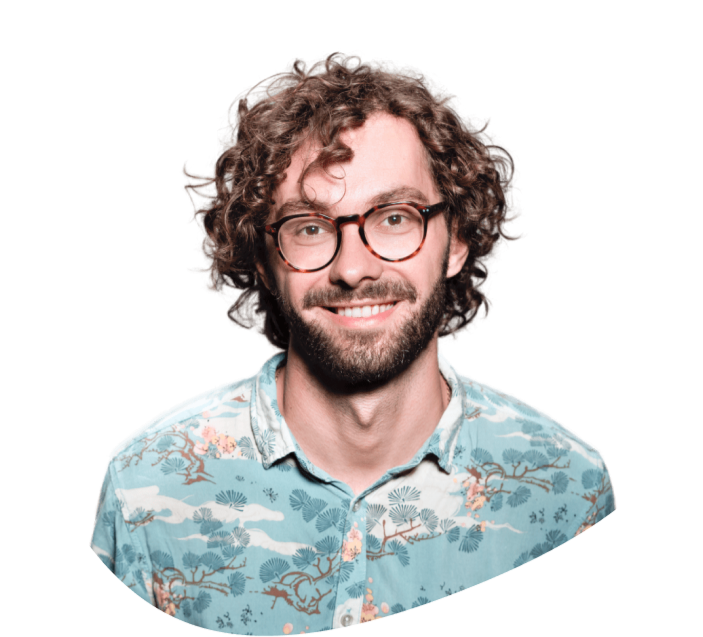
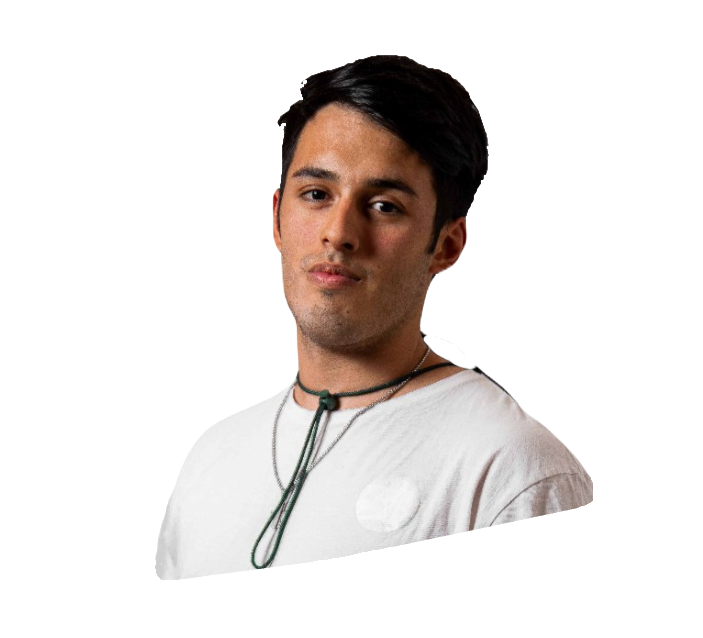
Se modifica la imagen de developer, se agrega sidebar para mobile

diff --git a/components/Hero.jsx b/components/Hero.jsx
@@ -7,6 +7,8 @@ import {
     RiTeamFill,
     RiTodoFill,
     RiArrowDownSLine,
+    RiHammerFill,
+    RiToolsFill,
 } from "react-icons/ri";
 
 //Components
@@ -32,20 +34,20 @@ const Hero = () => {
                         <Button variant="secondary" className="gap-x-2">Download CV<Download size={18}/></Button>
                     </div>
                     {/*Socials*/}
-                    <Socials containerStyles="flex gap-x-6 mx-auto xl:mx:0" iconsStyles="text-foreground text-[22px] hover:text-primary transition-all"/>
+                    <Socials containerStyles="flex gap-x-6 mx-auto xl:mx-0" iconsStyles="text-foreground text-[22px] hover:text-primary transition-all"/>
                 </div>
                 {/*Image*/}
                 <div className="hidden xl:flex relative">
                     {/*Badge 1*/}
                     <Badge containerStyles="absolute top-[24%] -left-[5rem]" icon={<RiBriefcase4Fill />} endCountNum={1} badgeText="Years Of Experience"/>
                     {/*Badge 2*/}
-                    <Badge containerStyles="absolute top-[80%] -left-[1rem]" icon={<RiTodoFill />} endCountNum={6} endCountText="k" 
+                    <Badge containerStyles="absolute top-[80%] -left-[1rem]" icon={<RiTodoFill />} endCountNum={6} endCountText="" 
                     badgeText="Finished Proyects"/>
                     {/*Badge 3*/}
-                    <Badge containerStyles="absolute top-[55%] -right-8" icon={<RiTeamFill />} endCountNum={9} endCountText="k"
-                    badgeText="Happy Clients"/>
+                    <Badge containerStyles="absolute top-[55%] -right-8" icon={<RiToolsFill />} endCountNum={5} endCountText=""
+                    badgeText="Frameworks and language"/>
                     <div className="bg-hero_shape2_light dark:bg-hero_shape2_dark w-[500px] h-[500px] bg-no-repeat absolute -top-1 -right-2"></div>
-                    <DevImg containerStyles="bg-hero_shape w-[510px] h-[462px] bg-no-repeat relative bg-bottom" imgSrc="/hero/developer1.png"/>
+                    <DevImg containerStyles="bg-hero_shape w-[510px] h-[462px] bg-no-repeat relative bg-bottom" imgSrc="/hero/developer.png"/>
                 </div>
             </div>
             {/*Icon*/}

diff --git a/components/MobileNav.jsx b/components/MobileNav.jsx
@@ -1,6 +1,31 @@
+import { AlignJustify } from "lucide-react"
+import { Sheet, SheetTrigger, SheetContent } from "./ui/sheet"
+import Nav from "./Nav"
+import Logo from "./ui/Logo"
+import Socials from "./Socials"
+
+
 const MobileNav = () => {
   return (
-    <div>MobileNav</div>
+    <Sheet>
+      <SheetTrigger asChild>
+        <AlignJustify className="cursor-pointer" />
+      </SheetTrigger>
+      <SheetContent>
+        <div className="flex flex-col items-center justify-between h-full py-8">
+          <div className="flex flex-col items-center gap-y-32">
+            <Logo />
+            <Nav 
+            containerStyles="flex flex-col items-center gap-y-6"
+            linkStyles="text-2xl" />
+            <Socials 
+            containerStyles="flex gap-x-4"
+            iconsStyles="text-2xl"
+            />
+          </div>
+        </div>
+      </SheetContent>
+    </Sheet>
   )
 }
 

diff --git a/components/Header.jsx b/components/Header.jsx
@@ -7,6 +7,7 @@ import Logo from "./ui/Logo";
 import Nav from "./Nav";
 import MobileNav from "./MobileNav";
 import { usePathname } from "next/navigation";
+import { Sheet } from "./ui/sheet";
 
 
 const Header = () => {
@@ -24,6 +25,7 @@ const Header = () => {
         return () => window.removeEventListener("scroll", handleScroll);
     })
     return (
+        
         <header 
         className={`${
             header 
@@ -46,6 +48,7 @@ const Header = () => {
                         </div>
                     </div>
                 </div>
+            <Sheet className="bg-red-50"/>
             </div>
         </header>
     )
